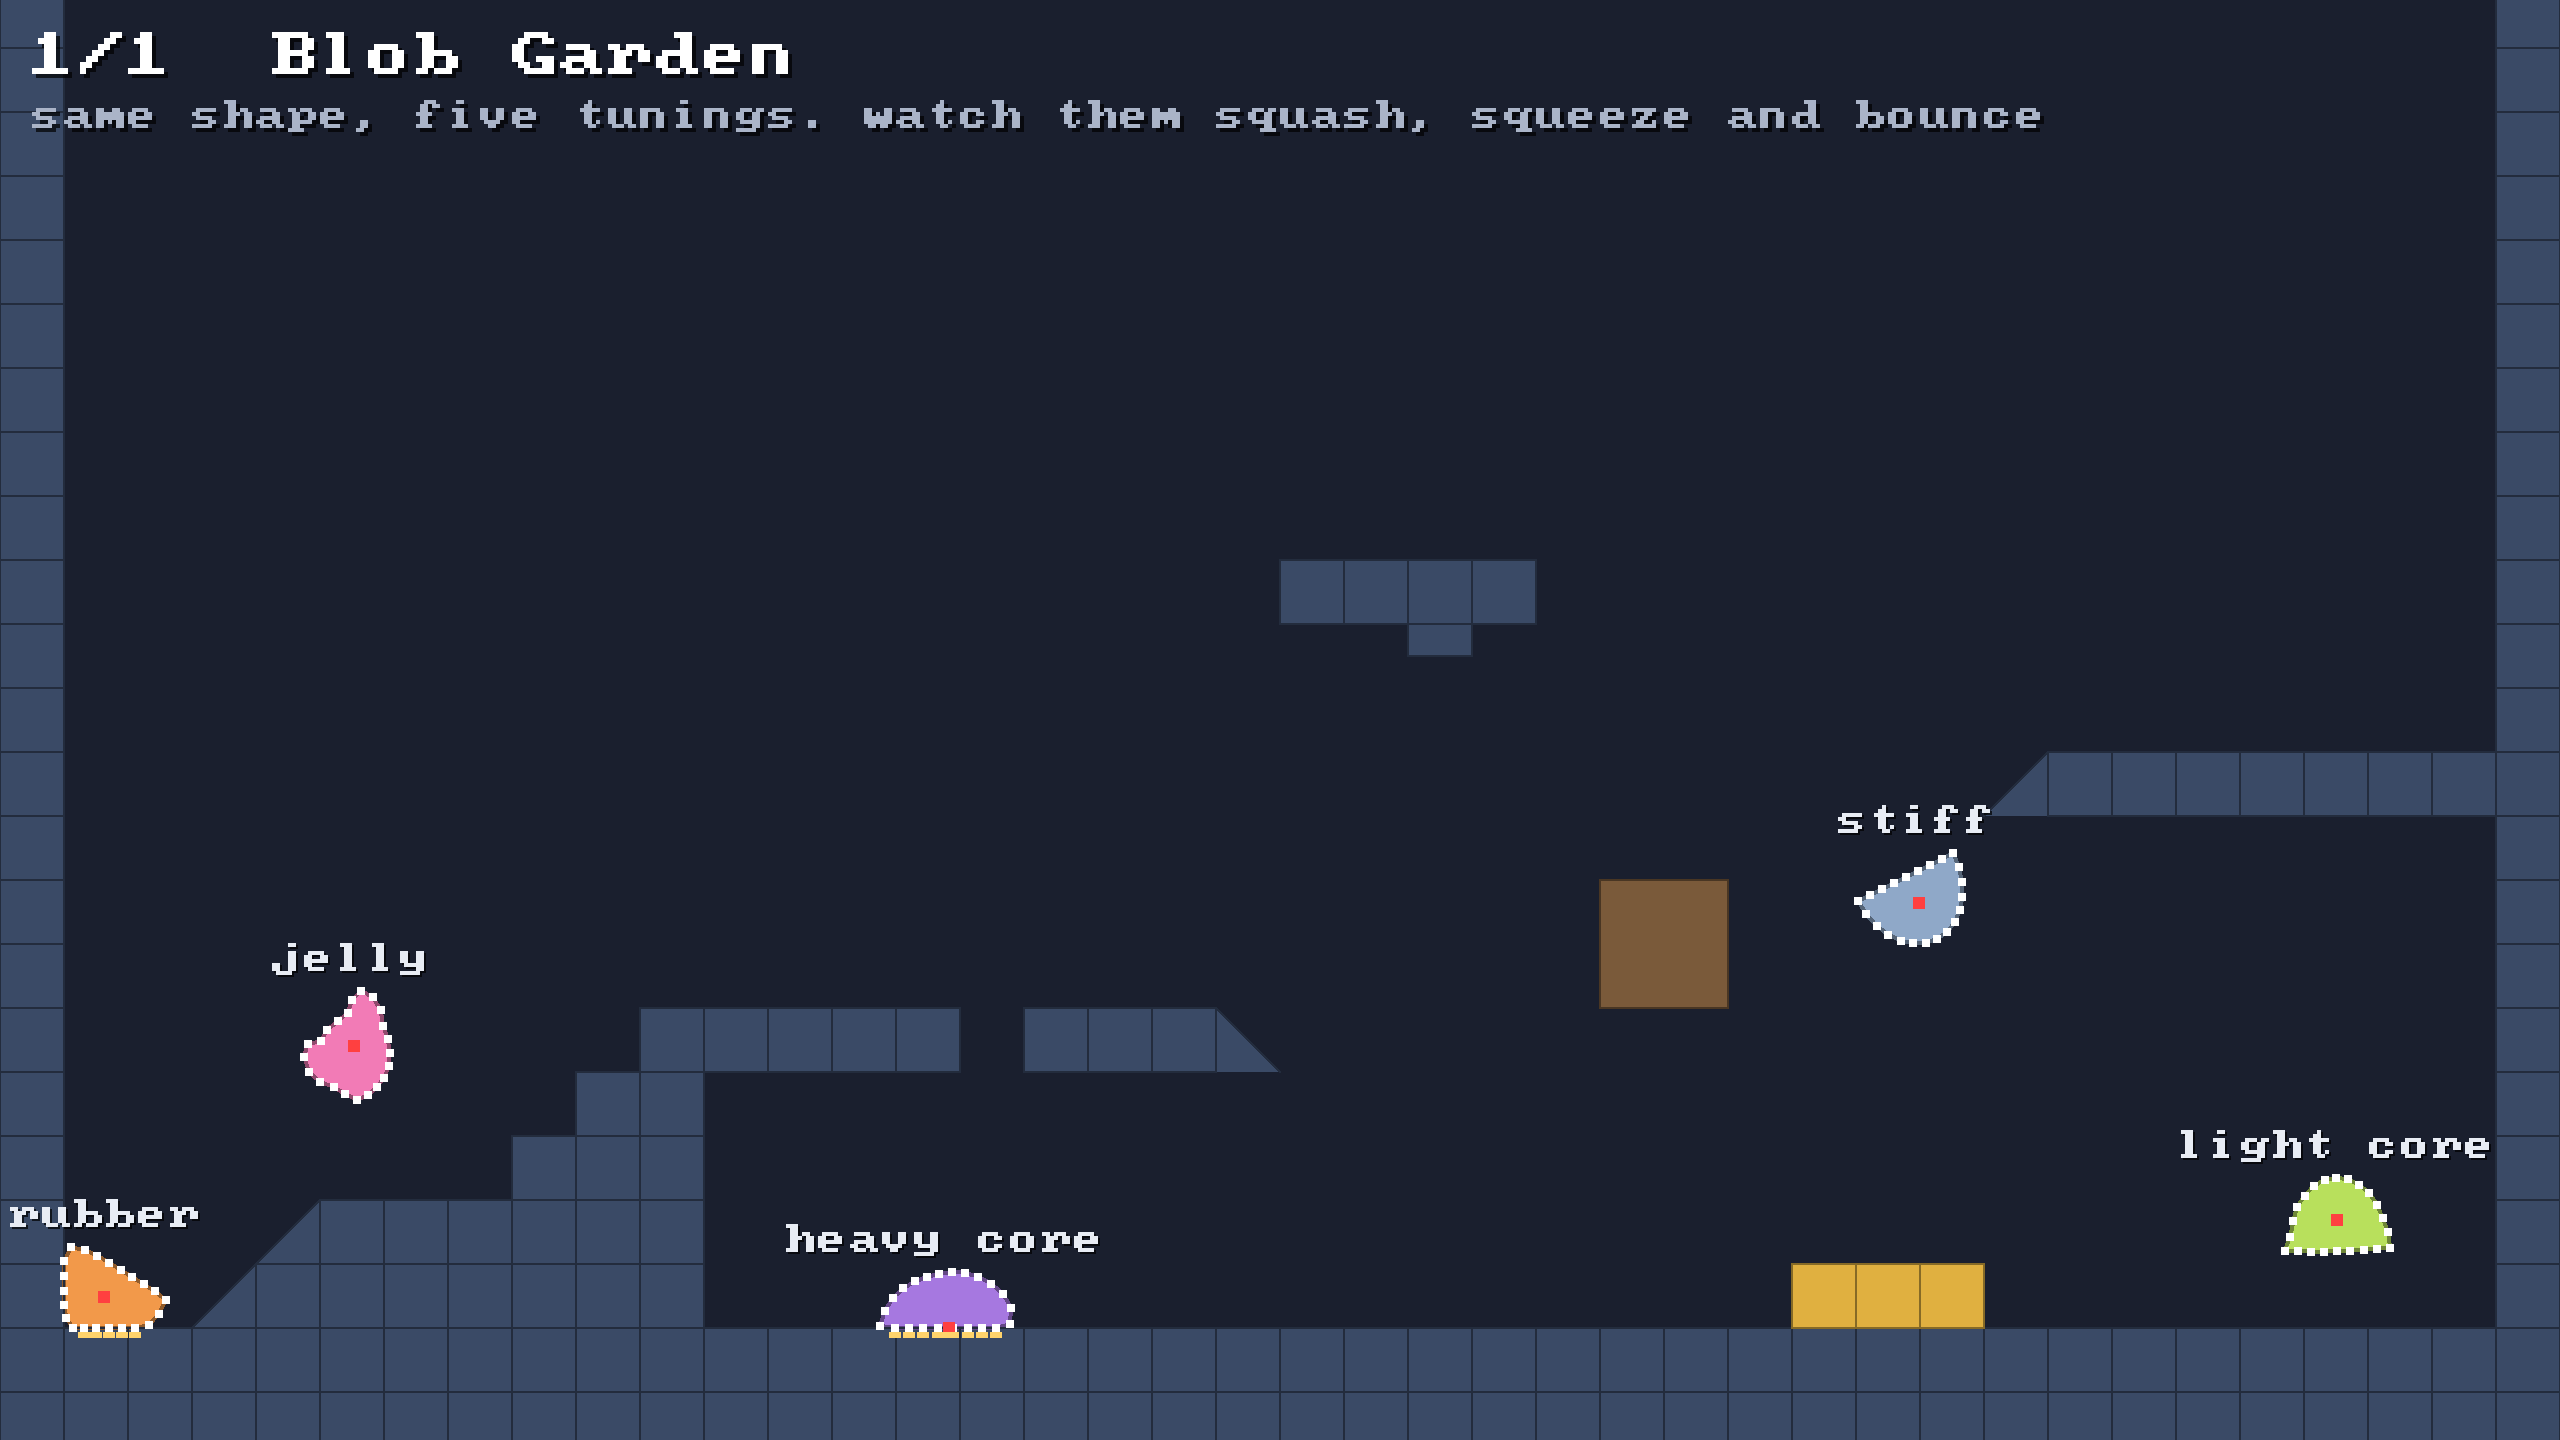
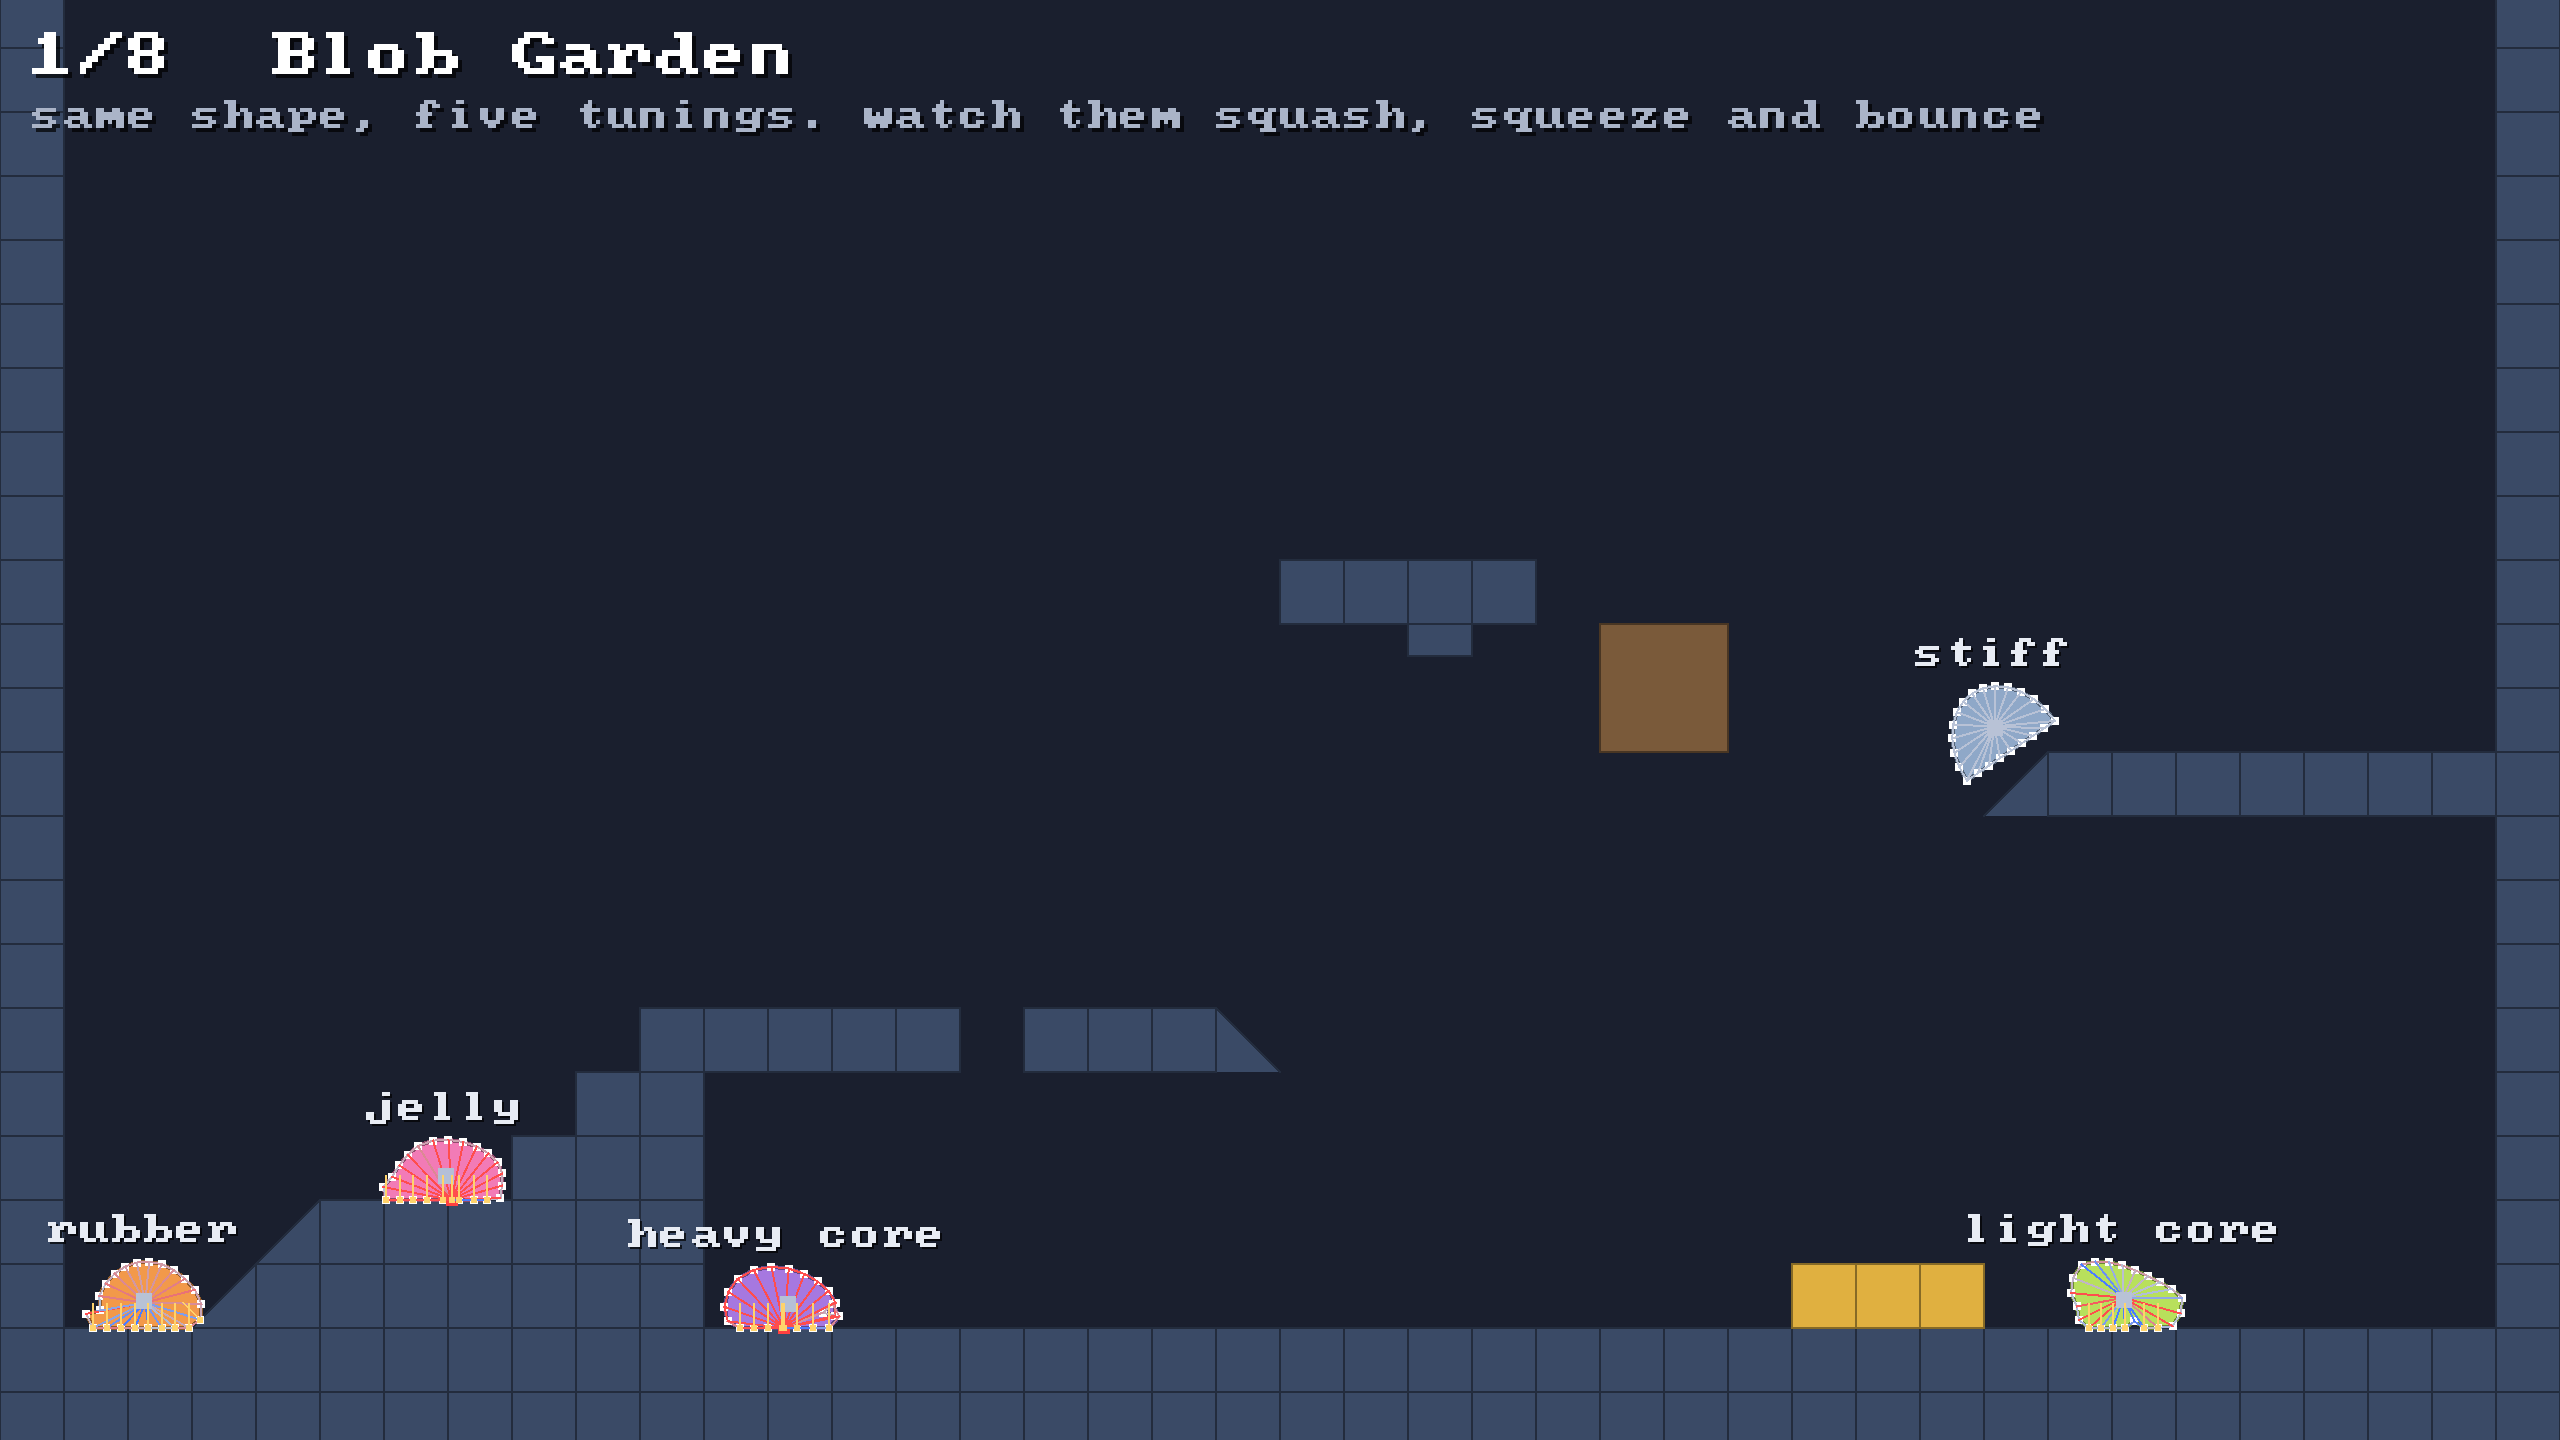
Bring the explainers and the README up to date
Every page's capture command now names its debug level, since
--details means everything after #19, and the GIFs are recaptured with
those exact commands. The README's hero GIF and F1 picture show the new
HUD and debug view, and its status says the particle world is done.

Closes #21

diff --git a/README.md b/README.md
@@ -51,11 +51,12 @@ SDL3 3.4+ yourself.
 **Same shape, five tunings.** Jelly, rubber, stiff, a heavy core and a light core hop around
 ramps, stairs, a low ceiling, bounce pads 🟨 and a crusher 🟫. Watch how differently they squash.
 
-<img src="docs/img/blob-garden-details.png" alt="the Blob Garden with details on: every particle, core and floor contact" width="100%">
+<img src="docs/img/blob-garden-details.png" alt="the Blob Garden with every debug view on: particles, cores, constraints coloured by stress, and contacts" width="100%">
 
-☝ That's `F1`. The white dots are the particles, the red dot is the heavy core, and the yellow
-feet are the particles standing on something. Press it again for the constraints, coloured by stress,
-and again for every contact. [🔍 More](docs/explained/debug-views.md)
+☝ That's `F1` three times. The white dots are the particles and the red dot the heavy core; the
+spokes go red where they stretch and blue where they squeeze; the yellow lines are particles standing
+on something, pointing the way they were pushed. Once shows just the dots, twice adds the
+constraints, a fourth time turns it off. [🔍 More](docs/explained/debug-views.md)
 
 ### 2 · ⛲ Fountain
 
@@ -134,11 +135,13 @@ what breaks it. 👉 [**docs/explained**](docs/explained/README.md)
 ./gradlew allTests                                  # the engine's tests
 ./gradlew :demo:macosArm64Test                      # the sandbox's tests (a 10-minute garden run included)
 scripts/capture.sh 1 blob-garden --from 1 --to 7    # re-record the GIF above
+SANDBOX_BENCH=600 ./gradlew :demo:runRelease        # time every scene's step
 ```
 
 ## 🚧 Status
 
-Milestone 2 of 5. The plan is in [the design](docs/specs/2026-11-10-klyph-physics-design.md), and
+Milestones 1 and 2 of 5 are done: the sandbox, and the particle world with its soft bodies, ropes,
+cloth and sand. Next up: 📦 rigid bodies. The plan is in [the design](docs/specs/2026-11-10-klyph-physics-design.md), and
 the work is tracked in the [milestones](../../milestones).
 
 It grew out of the slime in [slimy-the-blob](https://github.com/pererikbergman/slimy-the-blob). 🟢

diff --git a/docs/explained/contacts.md b/docs/explained/contacts.md
@@ -67,4 +67,4 @@ for "the step before", and the tags. A reused particle handle starts with nothin
 `./gradlew :demo:run`, scene `1` **Blob Garden**, `F1` three times. The yellow lines are particles
 on a floor this step, pointing the way they were pushed; cyan ones touched a wall or another body. Watch a blob hit the 🟨 pads.
 
-📸 `scripts/capture.sh 1 contacts --from 7.2 --to 8.4 --details --clean --slow --crop 0.5,0.15,0.5,0.85`
+📸 `scripts/capture.sh 1 contacts --from 7.2 --to 8.4 --view 3 --clean --slow --crop 0.5,0.15,0.5,0.85`

diff --git a/docs/explained/verlet.md b/docs/explained/verlet.md
@@ -62,4 +62,4 @@ The engine still edits velocity on purpose, by moving the *previous* position:
 `./gradlew :demo:run`, scene `1` **Blob Garden**, press `F1` to see the particles and `S` for
 slow motion. Then `Space` and `.` to step through a hop one step at a time. 🐢
 
-📸 `scripts/capture.sh 1 verlet --from 2.8 --to 4.2 --details --clean --slow --crop 0,0.35,0.4,0.65`
+📸 `scripts/capture.sh 1 verlet --from 2.8 --to 4.2 --view 1 --clean --slow --crop 0,0.35,0.4,0.65`

diff --git a/docs/explained/soft-bodies.md b/docs/explained/soft-bodies.md
@@ -82,4 +82,4 @@ and nearest points work on world bodies too.
 `./gradlew :demo:run`, scene `1` **Blob Garden**, `F1` for the dots. The red dot is the core. Compare
 the 💜 heavy core and the 💚 light core when they land.
 
-📸 `scripts/capture.sh 1 soft-bodies --from 0.3 --to 1.5 --details --clean --slow --crop 0.45,0.45,0.3,0.55`
+📸 `scripts/capture.sh 1 soft-bodies --from 0.3 --to 1.5 --view 1 --clean --slow --crop 0.45,0.45,0.3,0.55`

diff --git a/docs/explained/solids.md b/docs/explained/solids.md
@@ -85,4 +85,4 @@ These all bit us. 🫠
 `./gradlew :demo:run`, scene `1` **Blob Garden**, `F1` for details. Ramps and stairs on the left,
 the floating ledge with its slope on the right, and the 🟫 crusher in the middle.
 
-📸 `scripts/capture.sh 1 solids --from 3.5 --to 7.5 --details --clean --crop 0.35,0.1,0.65,0.9`
+📸 `scripts/capture.sh 1 solids --from 3.5 --to 7.5 --view 1 --clean --crop 0.35,0.1,0.65,0.9`

diff --git a/docs/explained/outline.md b/docs/explained/outline.md
@@ -54,4 +54,4 @@ that goes exactly through a dot counts it once, never twice.
 `./gradlew :demo:run`, scene `1` **Blob Garden**. Every blob is filled with `Outline.spans`. Watch
 the 🩷 jelly flop and stay solid.
 
-📸 `scripts/capture.sh 1 outline --from 9 --to 10.5 --details --clean --slow --crop 0,0.4,0.3,0.6`
+📸 `scripts/capture.sh 1 outline --from 9 --to 10.5 --view 1 --clean --slow --crop 0,0.4,0.3,0.6`
